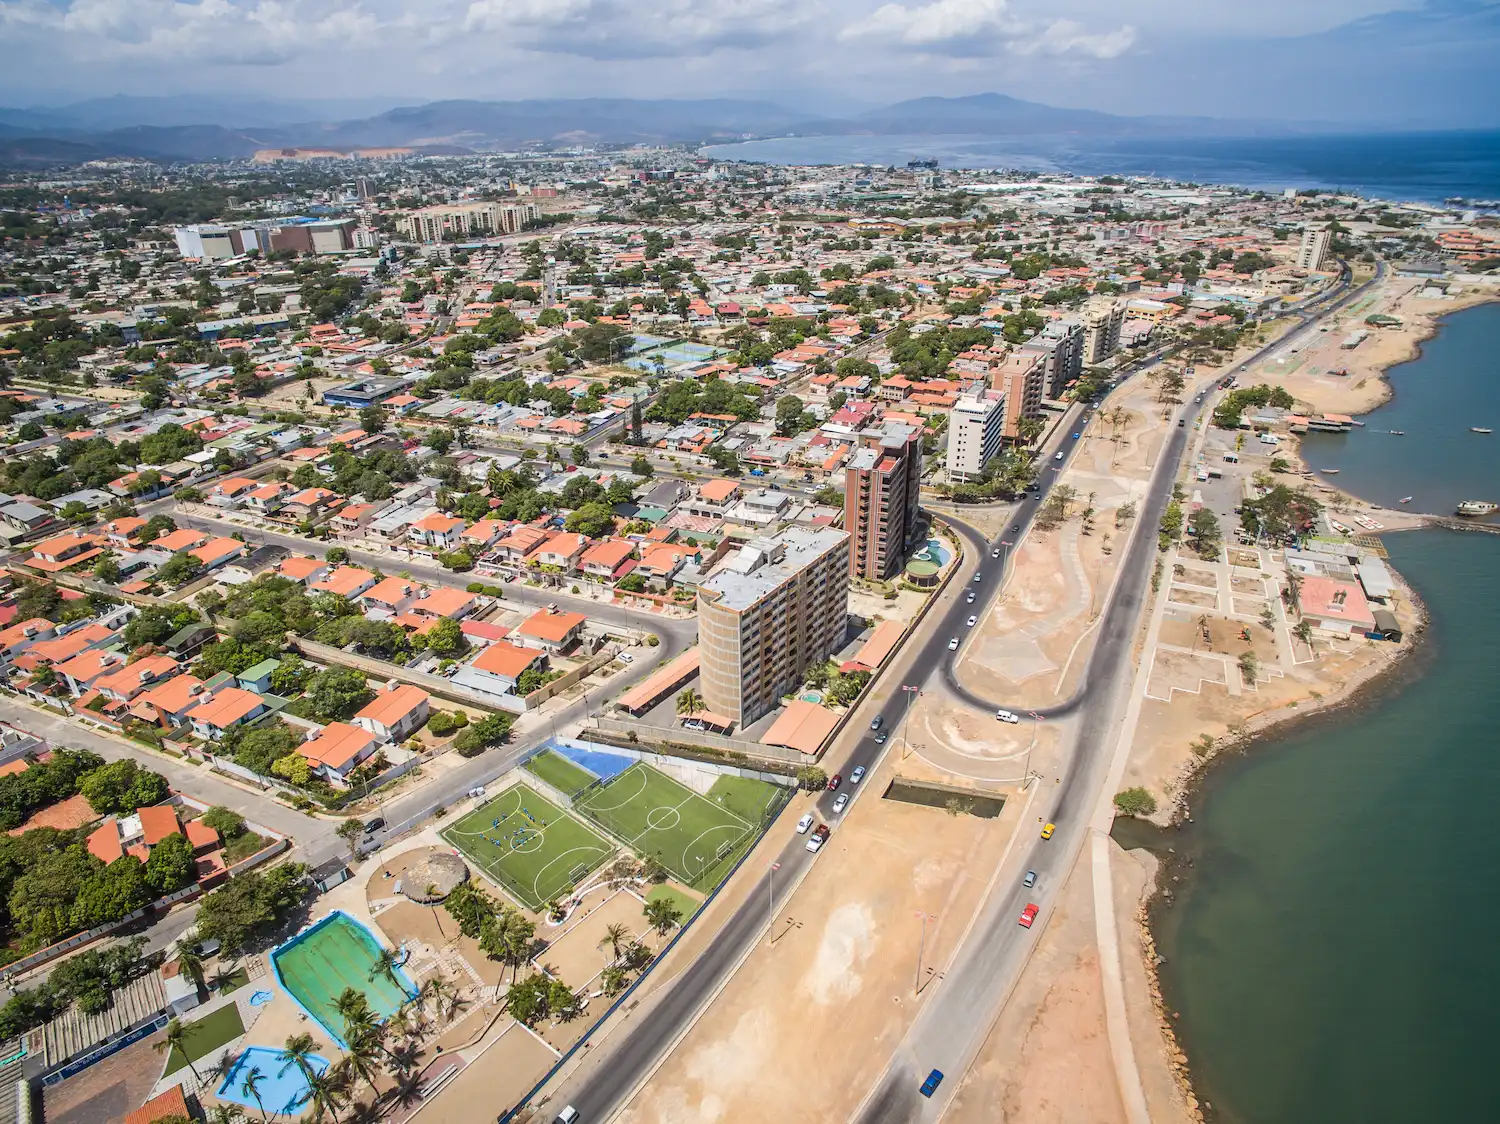
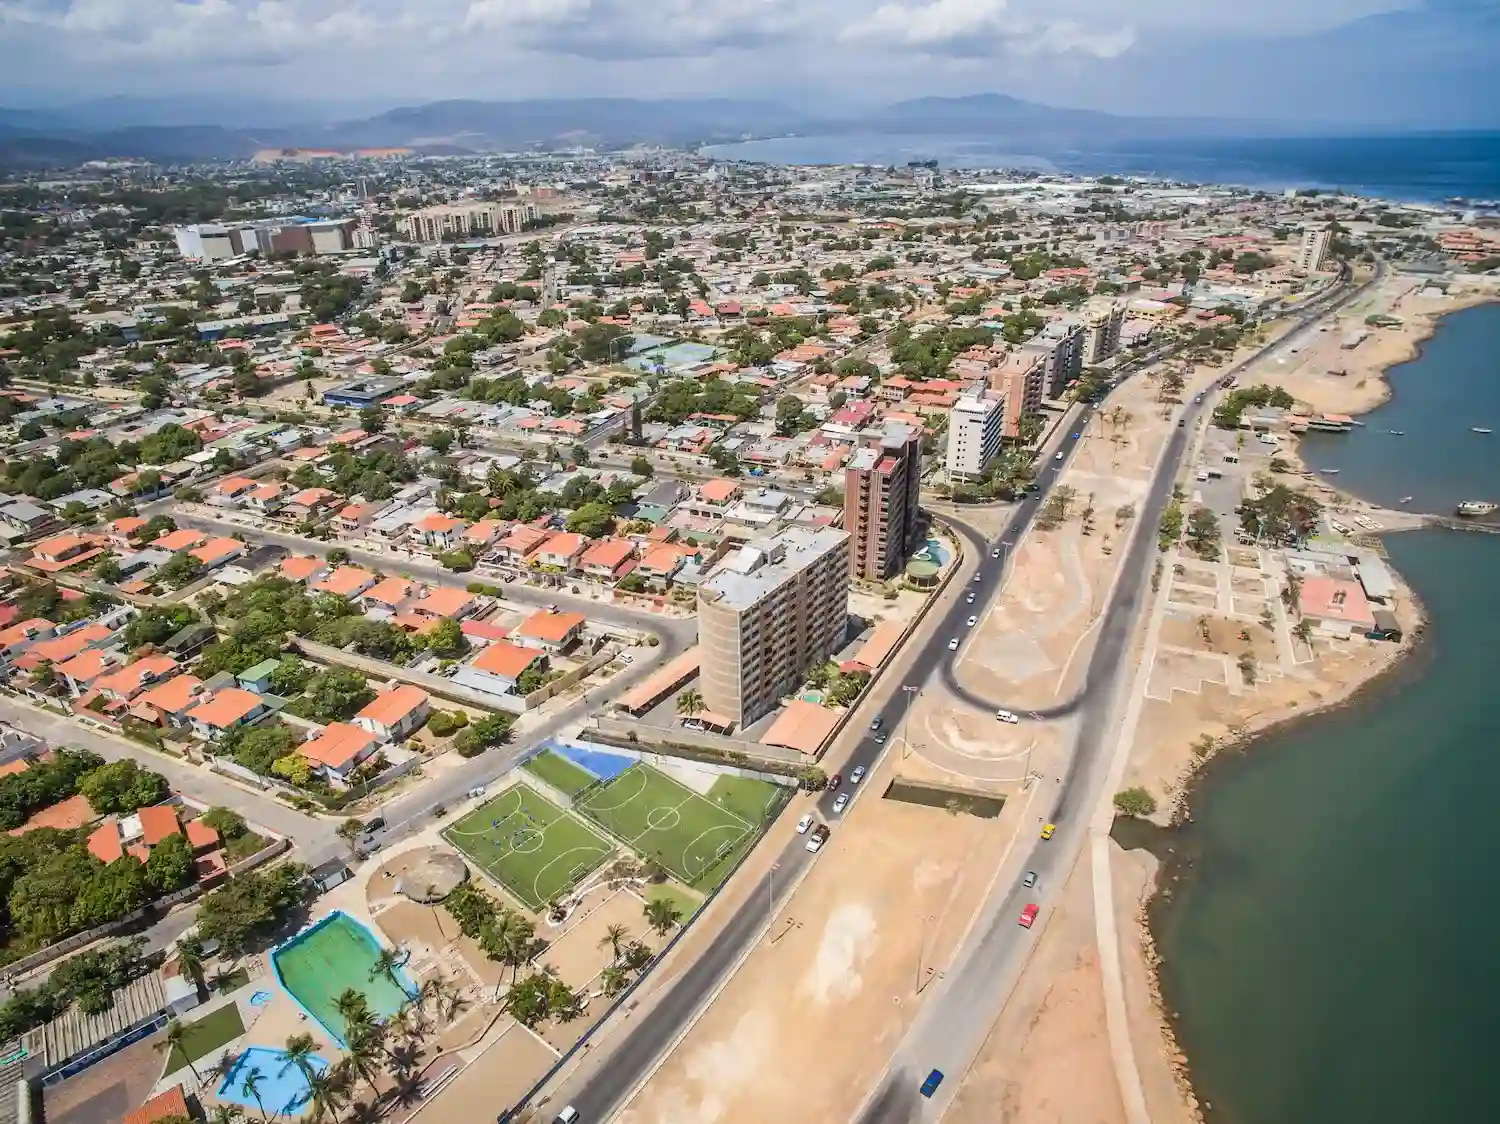
place done v4

diff --git a/place.html b/place.html
@@ -4,7 +4,7 @@
     <meta charset="UTF-8">
     <meta name="viewport" content="width=device-width, initial-scale=1.0">
     <title>Cumaná Venezuela - WDD 131 Project</title>
-    <meta name="description" content="WDD 131 - Country and location project for Cumaná, Venezuela. Demonstrating responsive design CSS Grid layout positioning, and dynamic JavaScript wind chill calculations.">
+    <meta name="description" content="WDD 131 - project for Cumaná, Venezuela. Demonstrating responsive design CSS Grid layout positioning, and dynamic JavaScript wind chill calculations.">
     <meta name="author" content="Gabriel Alejandro">
     <link rel="preconnect" href="https://fonts.googleapis.com">
     <link rel="preconnect" href="https://fonts.gstatic.com" crossorigin>

diff --git a/styles/place.css b/styles/place.css
@@ -95,7 +95,7 @@ main {
 
 footer {
     background-color: var(--primary-color);
-    color: white;
+    color: #ffffff;
     text-align: center;
     padding: 1.5rem;
     margin-top: auto;
